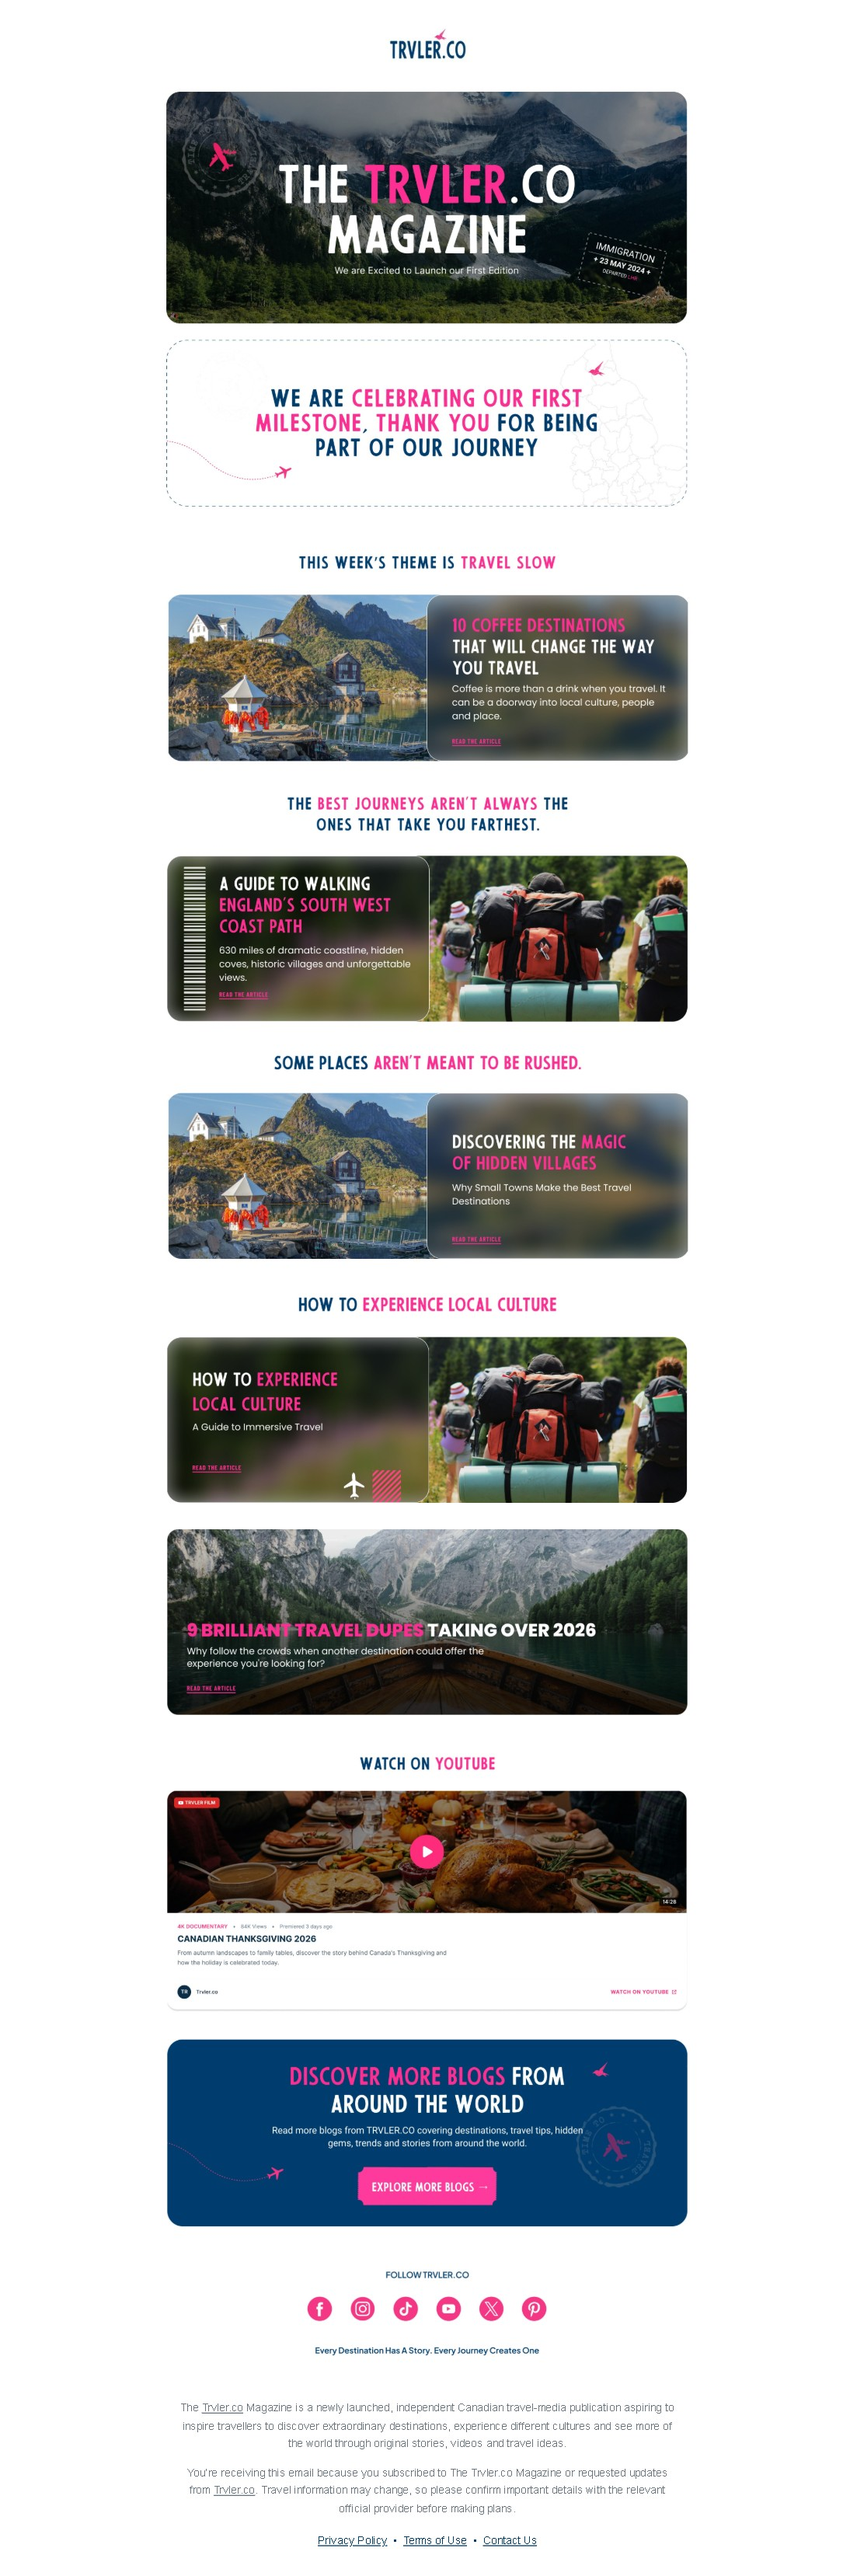
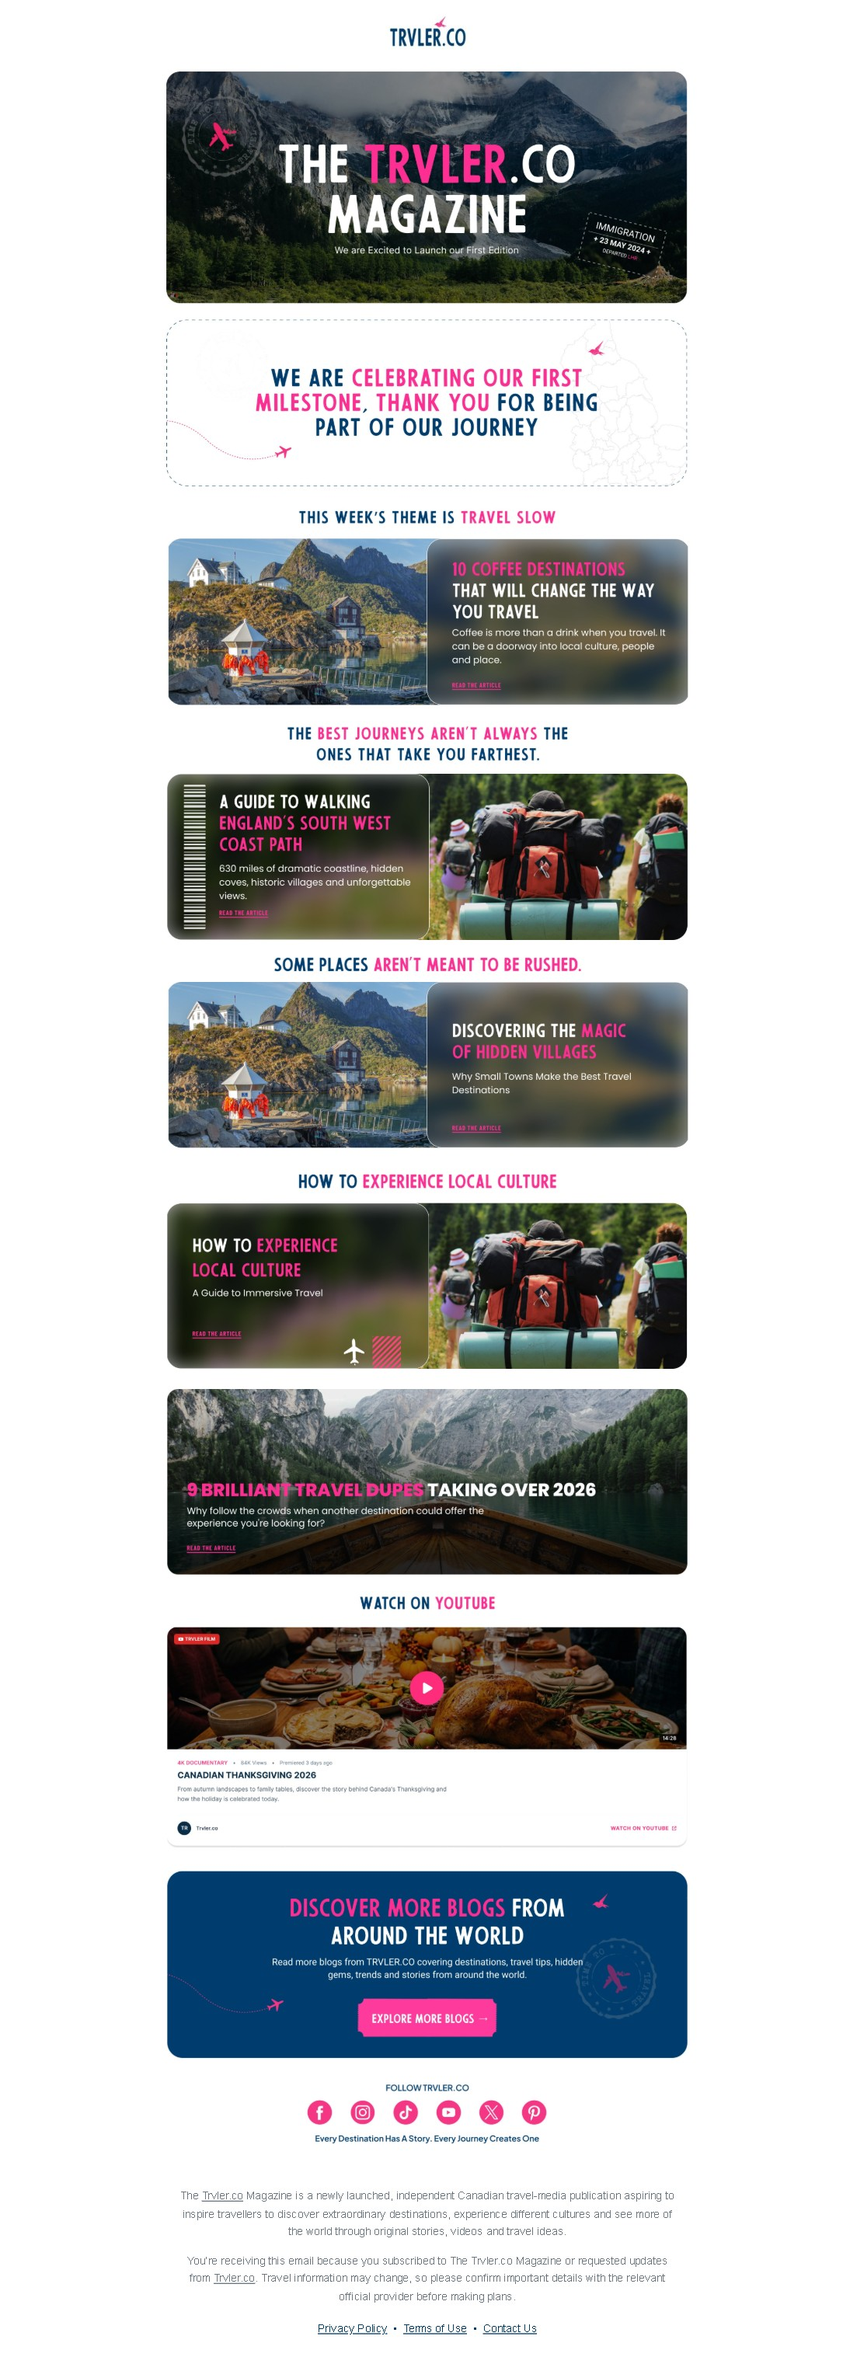
newly

Changed region(s): [[0.1825, 0.2185, 0.8212, 0.999], [0.1825, 0.0, 0.8212, 0.1873]]

diff --git a/preview.html b/preview.html
@@ -40,7 +40,7 @@
 <body style="margin:0;padding:0;background:#FFFFFF;">
   <div style="display:none;max-height:0;overflow:hidden;opacity:0;mso-hide:all;">Issue 01 - travel slow. Five stories, one film, and the world within reach.</div>
   <table role="presentation" width="100%" cellpadding="0" cellspacing="0" border="0" style="width:100%;border-collapse:collapse;background:#FFFFFF;">
-      <tr><td align="center" bgcolor="#FFFFFF" style="padding:22px 0 10px;background:#FFFFFF;">
+      <tr><td align="center" bgcolor="#FFFFFF" style="padding:0;background:#FFFFFF;">
         <table role="presentation" width="100%" cellpadding="0" cellspacing="0" border="0" align="center" style="width:100%;max-width:700px;border-collapse:collapse;">
           <tr><td align="center" style="padding:0;">
         <table role="presentation" width="21.429%" cellpadding="0" cellspacing="0" border="0" align="center" style="width:21.429%;max-width:150px;border-collapse:collapse;">
@@ -58,7 +58,7 @@
           </td></tr>
         </table>
       </td></tr>
-      <tr><td align="center" bgcolor="#FFFFFF" style="padding:32px 0 24px;background:#FFFFFF;">
+      <tr><td align="center" bgcolor="#FFFFFF" style="padding:0px 0px 0;background:#FFFFFF;">
         <table role="presentation" width="100%" cellpadding="0" cellspacing="0" border="0" align="center" style="width:100%;max-width:700px;border-collapse:collapse;">
           <tr><td align="center" style="padding:0;">
         <table role="presentation" width="51.000%" cellpadding="0" cellspacing="0" border="0" align="center" style="width:51.000%;max-width:357px;border-collapse:collapse;">
@@ -67,7 +67,7 @@
           </td></tr>
         </table>
       </td></tr>
-      <tr><td align="center" class="gut" bgcolor="#FFFFFF" style="padding:0 15px;background:#FFFFFF;">
+      <tr><td align="center" class="gut" bgcolor="#FFFFFF" style="padding:10px 15px 0;background:#FFFFFF;">
         <table role="presentation" width="100%" cellpadding="0" cellspacing="0" border="0" align="center" style="width:100%;max-width:700px;border-collapse:collapse;">
           <tr><td align="center" style="padding:0;">
         <div class="card" style="max-width:670px;margin:0 auto;font-size:0;">
@@ -84,7 +84,7 @@
           </td></tr>
         </table>
       </td></tr>
-      <tr><td align="center" bgcolor="#FFFFFF" style="padding:32px 0 24px;background:#FFFFFF;">
+      <tr><td align="center" bgcolor="#FFFFFF" style="padding:14px 0px 0;background:#FFFFFF;">
         <table role="presentation" width="100%" cellpadding="0" cellspacing="0" border="0" align="center" style="width:100%;max-width:700px;border-collapse:collapse;">
           <tr><td align="center" style="padding:0;">
         <table role="presentation" width="55.429%" cellpadding="0" cellspacing="0" border="0" align="center" style="width:55.429%;max-width:388px;border-collapse:collapse;">
@@ -93,7 +93,7 @@
           </td></tr>
         </table>
       </td></tr>
-      <tr><td align="center" class="gut" bgcolor="#FFFFFF" style="padding:0 15px;background:#FFFFFF;">
+      <tr><td align="center" class="gut" bgcolor="#FFFFFF" style="padding:9px 15px 0;background:#FFFFFF;">
         <table role="presentation" width="100%" cellpadding="0" cellspacing="0" border="0" align="center" style="width:100%;max-width:700px;border-collapse:collapse;">
           <tr><td align="center" style="padding:0;">
         <div dir="rtl" class="card" style="max-width:670px;margin:0 auto;font-size:0;">
@@ -110,7 +110,7 @@
           </td></tr>
         </table>
       </td></tr>
-      <tr><td align="center" bgcolor="#FFFFFF" style="padding:32px 0 24px;background:#FFFFFF;">
+      <tr><td align="center" bgcolor="#FFFFFF" style="padding:11px 0px 0;background:#FFFFFF;">
         <table role="presentation" width="100%" cellpadding="0" cellspacing="0" border="0" align="center" style="width:100%;max-width:700px;border-collapse:collapse;">
           <tr><td align="center" style="padding:0;">
         <table role="presentation" width="60.286%" cellpadding="0" cellspacing="0" border="0" align="center" style="width:60.286%;max-width:422px;border-collapse:collapse;">
@@ -119,7 +119,7 @@
           </td></tr>
         </table>
       </td></tr>
-      <tr><td align="center" class="gut" bgcolor="#FFFFFF" style="padding:0 15px;background:#FFFFFF;">
+      <tr><td align="center" class="gut" bgcolor="#FFFFFF" style="padding:7px 15px 0;background:#FFFFFF;">
         <table role="presentation" width="100%" cellpadding="0" cellspacing="0" border="0" align="center" style="width:100%;max-width:700px;border-collapse:collapse;">
           <tr><td align="center" style="padding:0;">
         <div class="card" style="max-width:670px;margin:0 auto;font-size:0;">
@@ -136,7 +136,7 @@
           </td></tr>
         </table>
       </td></tr>
-      <tr><td align="center" bgcolor="#FFFFFF" style="padding:32px 0 24px;background:#FFFFFF;">
+      <tr><td align="center" bgcolor="#FFFFFF" style="padding:17px 0px 0;background:#FFFFFF;">
         <table role="presentation" width="100%" cellpadding="0" cellspacing="0" border="0" align="center" style="width:100%;max-width:700px;border-collapse:collapse;">
           <tr><td align="center" style="padding:0;">
         <table role="presentation" width="51.286%" cellpadding="0" cellspacing="0" border="0" align="center" style="width:51.286%;max-width:359px;border-collapse:collapse;">
@@ -145,7 +145,7 @@
           </td></tr>
         </table>
       </td></tr>
-      <tr><td align="center" class="gut" bgcolor="#FFFFFF" style="padding:0 15px;background:#FFFFFF;">
+      <tr><td align="center" class="gut" bgcolor="#FFFFFF" style="padding:10px 15px 0;background:#FFFFFF;">
         <table role="presentation" width="100%" cellpadding="0" cellspacing="0" border="0" align="center" style="width:100%;max-width:700px;border-collapse:collapse;">
           <tr><td align="center" style="padding:0;">
         <div dir="rtl" class="card" style="max-width:670px;margin:0 auto;font-size:0;">
@@ -162,7 +162,7 @@
           </td></tr>
         </table>
       </td></tr>
-      <tr><td align="center" class="gut" bgcolor="#FFFFFF" style="padding:34px 15px 0;background:#FFFFFF;">
+      <tr><td align="center" class="gut" bgcolor="#FFFFFF" style="padding:26px 15px 0;background:#FFFFFF;">
         <table role="presentation" width="100%" cellpadding="0" cellspacing="0" border="0" align="center" style="width:100%;max-width:700px;border-collapse:collapse;">
           <tr><td align="center" style="padding:0;">
         <table role="presentation" width="95.714%" cellpadding="0" cellspacing="0" border="0" align="center" style="width:95.714%;max-width:670px;border-collapse:collapse;">
@@ -180,7 +180,7 @@
           </td></tr>
         </table>
       </td></tr>
-      <tr><td align="center" bgcolor="#FFFFFF" style="padding:40px 0 20px;background:#FFFFFF;">
+      <tr><td align="center" bgcolor="#FFFFFF" style="padding:14px 0px 0;background:#FFFFFF;">
         <table role="presentation" width="100%" cellpadding="0" cellspacing="0" border="0" align="center" style="width:100%;max-width:700px;border-collapse:collapse;">
           <tr><td align="center" style="padding:0;">
         <table role="presentation" width="28.714%" cellpadding="0" cellspacing="0" border="0" align="center" style="width:28.714%;max-width:201px;border-collapse:collapse;">
@@ -189,7 +189,7 @@
           </td></tr>
         </table>
       </td></tr>
-      <tr><td align="center" class="gut" bgcolor="#FFFFFF" style="padding:0 15px;background:#FFFFFF;">
+      <tr><td align="center" class="gut" bgcolor="#FFFFFF" style="padding:16px 15px 0;background:#FFFFFF;">
         <table role="presentation" width="100%" cellpadding="0" cellspacing="0" border="0" align="center" style="width:100%;max-width:700px;border-collapse:collapse;">
           <tr><td align="center" style="padding:0;">
         <table role="presentation" width="95.714%" cellpadding="0" cellspacing="0" border="0" align="center" style="width:95.714%;max-width:670px;border-collapse:collapse;">
@@ -207,7 +207,7 @@
           </td></tr>
         </table>
       </td></tr>
-      <tr><td align="center" class="gut" bgcolor="#FFFFFF" style="padding:36px 15px 0;background:#FFFFFF;">
+      <tr><td align="center" class="gut" bgcolor="#FFFFFF" style="padding:30px 15px 0;background:#FFFFFF;">
         <table role="presentation" width="100%" cellpadding="0" cellspacing="0" border="0" align="center" style="width:100%;max-width:700px;border-collapse:collapse;">
           <tr><td align="center" style="padding:0;">
         <table role="presentation" width="95.714%" cellpadding="0" cellspacing="0" border="0" align="center" style="width:95.714%;max-width:670px;border-collapse:collapse;">
@@ -216,7 +216,7 @@
           </td></tr>
         </table>
       </td></tr>
-      <tr><td align="center" bgcolor="#FFFFFF" style="padding:40px 26px 12px;background:#FFFFFF;">
+      <tr><td align="center" bgcolor="#FFFFFF" style="padding:16px 26px 0;background:#FFFFFF;">
         <table role="presentation" width="100%" cellpadding="0" cellspacing="0" border="0" align="center" style="width:100%;max-width:700px;border-collapse:collapse;">
           <tr><td align="center" style="padding:0;">
         <table role="presentation" cellpadding="0" cellspacing="0" border="0" align="center" style="border-collapse:collapse;">
@@ -243,7 +243,7 @@
           </td></tr>
         </table>
       </td></tr>
-      <tr><td align="center" bgcolor="#FFFFFF" style="padding:20px 26px 0;background:#FFFFFF;">
+      <tr><td align="center" bgcolor="#FFFFFF" style="padding:0px 26px 0;background:#FFFFFF;">
         <table role="presentation" width="100%" cellpadding="0" cellspacing="0" border="0" align="center" style="width:100%;max-width:700px;border-collapse:collapse;">
           <tr><td align="center" style="padding:0;">
         <table role="presentation" cellpadding="0" cellspacing="0" border="0" align="center" style="border-collapse:collapse;">

diff --git a/beehiiv-snippet.html b/beehiiv-snippet.html
@@ -29,7 +29,7 @@
 </style>
   <div style="display:none;max-height:0;overflow:hidden;opacity:0;mso-hide:all;">Issue 01 - travel slow. Five stories, one film, and the world within reach.</div>
   <table role="presentation" width="100%" cellpadding="0" cellspacing="0" border="0" style="width:100%;border-collapse:collapse;background:#FFFFFF;">
-      <tr><td align="center" bgcolor="#FFFFFF" style="padding:22px 0 10px;background:#FFFFFF;">
+      <tr><td align="center" bgcolor="#FFFFFF" style="padding:0;background:#FFFFFF;">
         <table role="presentation" width="100%" cellpadding="0" cellspacing="0" border="0" align="center" style="width:100%;max-width:700px;border-collapse:collapse;">
           <tr><td align="center" style="padding:0;">
         <table role="presentation" width="21.429%" cellpadding="0" cellspacing="0" border="0" align="center" style="width:21.429%;max-width:150px;border-collapse:collapse;">
@@ -47,7 +47,7 @@
           </td></tr>
         </table>
       </td></tr>
-      <tr><td align="center" bgcolor="#FFFFFF" style="padding:32px 0 24px;background:#FFFFFF;">
+      <tr><td align="center" bgcolor="#FFFFFF" style="padding:0px 0px 0;background:#FFFFFF;">
         <table role="presentation" width="100%" cellpadding="0" cellspacing="0" border="0" align="center" style="width:100%;max-width:700px;border-collapse:collapse;">
           <tr><td align="center" style="padding:0;">
         <table role="presentation" width="51.000%" cellpadding="0" cellspacing="0" border="0" align="center" style="width:51.000%;max-width:357px;border-collapse:collapse;">
@@ -56,7 +56,7 @@
           </td></tr>
         </table>
       </td></tr>
-      <tr><td align="center" class="gut" bgcolor="#FFFFFF" style="padding:0 15px;background:#FFFFFF;">
+      <tr><td align="center" class="gut" bgcolor="#FFFFFF" style="padding:10px 15px 0;background:#FFFFFF;">
         <table role="presentation" width="100%" cellpadding="0" cellspacing="0" border="0" align="center" style="width:100%;max-width:700px;border-collapse:collapse;">
           <tr><td align="center" style="padding:0;">
         <div class="card" style="max-width:670px;margin:0 auto;font-size:0;">
@@ -73,7 +73,7 @@
           </td></tr>
         </table>
       </td></tr>
-      <tr><td align="center" bgcolor="#FFFFFF" style="padding:32px 0 24px;background:#FFFFFF;">
+      <tr><td align="center" bgcolor="#FFFFFF" style="padding:14px 0px 0;background:#FFFFFF;">
         <table role="presentation" width="100%" cellpadding="0" cellspacing="0" border="0" align="center" style="width:100%;max-width:700px;border-collapse:collapse;">
           <tr><td align="center" style="padding:0;">
         <table role="presentation" width="55.429%" cellpadding="0" cellspacing="0" border="0" align="center" style="width:55.429%;max-width:388px;border-collapse:collapse;">
@@ -82,7 +82,7 @@
           </td></tr>
         </table>
       </td></tr>
-      <tr><td align="center" class="gut" bgcolor="#FFFFFF" style="padding:0 15px;background:#FFFFFF;">
+      <tr><td align="center" class="gut" bgcolor="#FFFFFF" style="padding:9px 15px 0;background:#FFFFFF;">
         <table role="presentation" width="100%" cellpadding="0" cellspacing="0" border="0" align="center" style="width:100%;max-width:700px;border-collapse:collapse;">
           <tr><td align="center" style="padding:0;">
         <div dir="rtl" class="card" style="max-width:670px;margin:0 auto;font-size:0;">
@@ -99,7 +99,7 @@
           </td></tr>
         </table>
       </td></tr>
-      <tr><td align="center" bgcolor="#FFFFFF" style="padding:32px 0 24px;background:#FFFFFF;">
+      <tr><td align="center" bgcolor="#FFFFFF" style="padding:11px 0px 0;background:#FFFFFF;">
         <table role="presentation" width="100%" cellpadding="0" cellspacing="0" border="0" align="center" style="width:100%;max-width:700px;border-collapse:collapse;">
           <tr><td align="center" style="padding:0;">
         <table role="presentation" width="60.286%" cellpadding="0" cellspacing="0" border="0" align="center" style="width:60.286%;max-width:422px;border-collapse:collapse;">
@@ -108,7 +108,7 @@
           </td></tr>
         </table>
       </td></tr>
-      <tr><td align="center" class="gut" bgcolor="#FFFFFF" style="padding:0 15px;background:#FFFFFF;">
+      <tr><td align="center" class="gut" bgcolor="#FFFFFF" style="padding:7px 15px 0;background:#FFFFFF;">
         <table role="presentation" width="100%" cellpadding="0" cellspacing="0" border="0" align="center" style="width:100%;max-width:700px;border-collapse:collapse;">
           <tr><td align="center" style="padding:0;">
         <div class="card" style="max-width:670px;margin:0 auto;font-size:0;">
@@ -125,7 +125,7 @@
           </td></tr>
         </table>
       </td></tr>
-      <tr><td align="center" bgcolor="#FFFFFF" style="padding:32px 0 24px;background:#FFFFFF;">
+      <tr><td align="center" bgcolor="#FFFFFF" style="padding:17px 0px 0;background:#FFFFFF;">
         <table role="presentation" width="100%" cellpadding="0" cellspacing="0" border="0" align="center" style="width:100%;max-width:700px;border-collapse:collapse;">
           <tr><td align="center" style="padding:0;">
         <table role="presentation" width="51.286%" cellpadding="0" cellspacing="0" border="0" align="center" style="width:51.286%;max-width:359px;border-collapse:collapse;">
@@ -134,7 +134,7 @@
           </td></tr>
         </table>
       </td></tr>
-      <tr><td align="center" class="gut" bgcolor="#FFFFFF" style="padding:0 15px;background:#FFFFFF;">
+      <tr><td align="center" class="gut" bgcolor="#FFFFFF" style="padding:10px 15px 0;background:#FFFFFF;">
         <table role="presentation" width="100%" cellpadding="0" cellspacing="0" border="0" align="center" style="width:100%;max-width:700px;border-collapse:collapse;">
           <tr><td align="center" style="padding:0;">
         <div dir="rtl" class="card" style="max-width:670px;margin:0 auto;font-size:0;">
@@ -151,7 +151,7 @@
           </td></tr>
         </table>
       </td></tr>
-      <tr><td align="center" class="gut" bgcolor="#FFFFFF" style="padding:34px 15px 0;background:#FFFFFF;">
+      <tr><td align="center" class="gut" bgcolor="#FFFFFF" style="padding:26px 15px 0;background:#FFFFFF;">
         <table role="presentation" width="100%" cellpadding="0" cellspacing="0" border="0" align="center" style="width:100%;max-width:700px;border-collapse:collapse;">
           <tr><td align="center" style="padding:0;">
         <table role="presentation" width="95.714%" cellpadding="0" cellspacing="0" border="0" align="center" style="width:95.714%;max-width:670px;border-collapse:collapse;">
@@ -169,7 +169,7 @@
           </td></tr>
         </table>
       </td></tr>
-      <tr><td align="center" bgcolor="#FFFFFF" style="padding:40px 0 20px;background:#FFFFFF;">
+      <tr><td align="center" bgcolor="#FFFFFF" style="padding:14px 0px 0;background:#FFFFFF;">
         <table role="presentation" width="100%" cellpadding="0" cellspacing="0" border="0" align="center" style="width:100%;max-width:700px;border-collapse:collapse;">
           <tr><td align="center" style="padding:0;">
         <table role="presentation" width="28.714%" cellpadding="0" cellspacing="0" border="0" align="center" style="width:28.714%;max-width:201px;border-collapse:collapse;">
@@ -178,7 +178,7 @@
           </td></tr>
         </table>
       </td></tr>
-      <tr><td align="center" class="gut" bgcolor="#FFFFFF" style="padding:0 15px;background:#FFFFFF;">
+      <tr><td align="center" class="gut" bgcolor="#FFFFFF" style="padding:16px 15px 0;background:#FFFFFF;">
         <table role="presentation" width="100%" cellpadding="0" cellspacing="0" border="0" align="center" style="width:100%;max-width:700px;border-collapse:collapse;">
           <tr><td align="center" style="padding:0;">
         <table role="presentation" width="95.714%" cellpadding="0" cellspacing="0" border="0" align="center" style="width:95.714%;max-width:670px;border-collapse:collapse;">
@@ -196,7 +196,7 @@
           </td></tr>
         </table>
       </td></tr>
-      <tr><td align="center" class="gut" bgcolor="#FFFFFF" style="padding:36px 15px 0;background:#FFFFFF;">
+      <tr><td align="center" class="gut" bgcolor="#FFFFFF" style="padding:30px 15px 0;background:#FFFFFF;">
         <table role="presentation" width="100%" cellpadding="0" cellspacing="0" border="0" align="center" style="width:100%;max-width:700px;border-collapse:collapse;">
           <tr><td align="center" style="padding:0;">
         <table role="presentation" width="95.714%" cellpadding="0" cellspacing="0" border="0" align="center" style="width:95.714%;max-width:670px;border-collapse:collapse;">
@@ -205,7 +205,7 @@
           </td></tr>
         </table>
       </td></tr>
-      <tr><td align="center" bgcolor="#FFFFFF" style="padding:40px 26px 12px;background:#FFFFFF;">
+      <tr><td align="center" bgcolor="#FFFFFF" style="padding:16px 26px 0;background:#FFFFFF;">
         <table role="presentation" width="100%" cellpadding="0" cellspacing="0" border="0" align="center" style="width:100%;max-width:700px;border-collapse:collapse;">
           <tr><td align="center" style="padding:0;">
         <table role="presentation" cellpadding="0" cellspacing="0" border="0" align="center" style="border-collapse:collapse;">
@@ -232,7 +232,7 @@
           </td></tr>
         </table>
       </td></tr>
-      <tr><td align="center" bgcolor="#FFFFFF" style="padding:20px 26px 0;background:#FFFFFF;">
+      <tr><td align="center" bgcolor="#FFFFFF" style="padding:0px 26px 0;background:#FFFFFF;">
         <table role="presentation" width="100%" cellpadding="0" cellspacing="0" border="0" align="center" style="width:100%;max-width:700px;border-collapse:collapse;">
           <tr><td align="center" style="padding:0;">
         <table role="presentation" cellpadding="0" cellspacing="0" border="0" align="center" style="border-collapse:collapse;">
